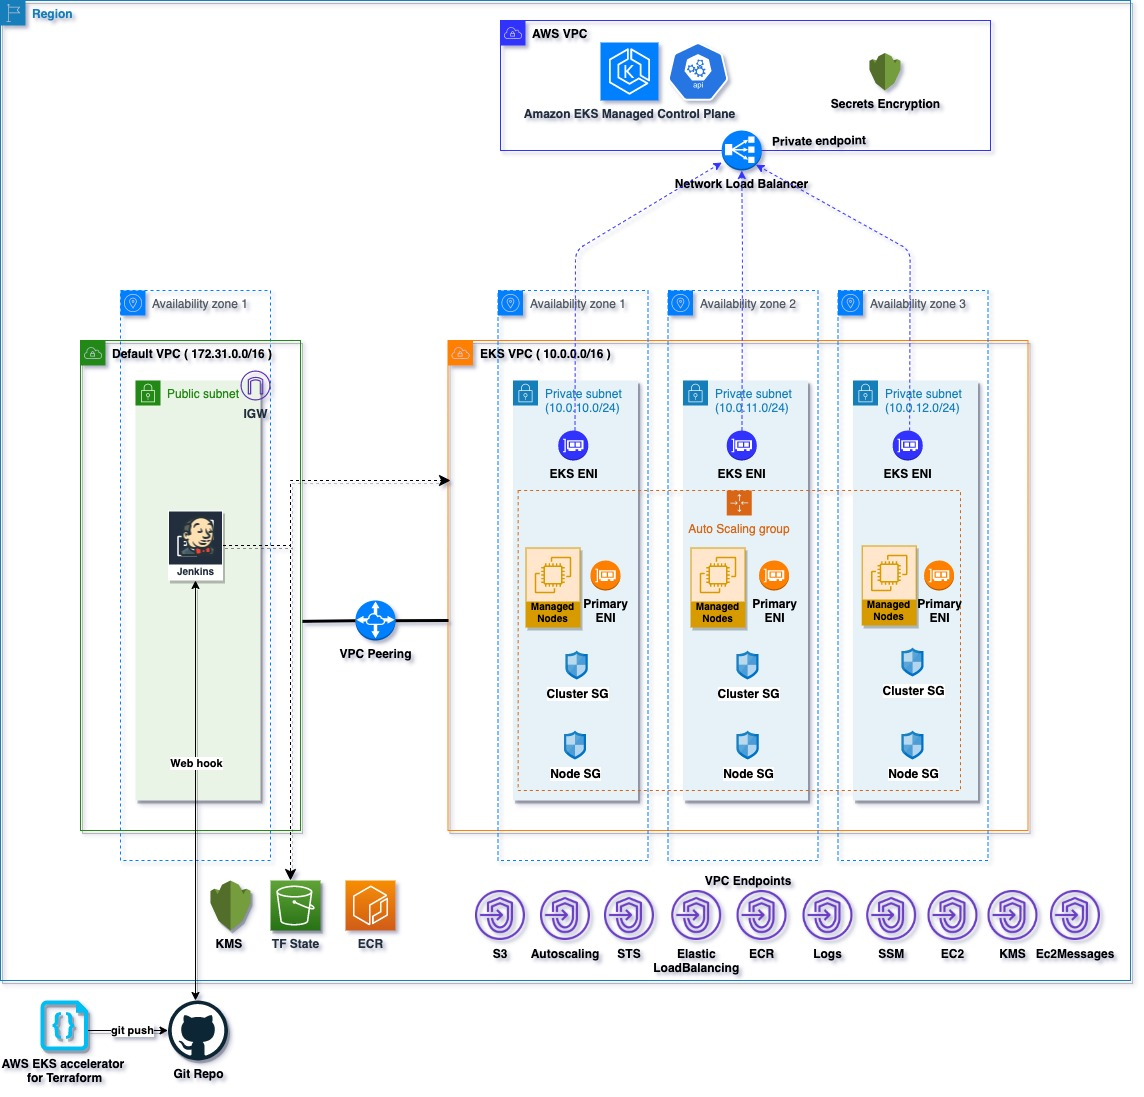
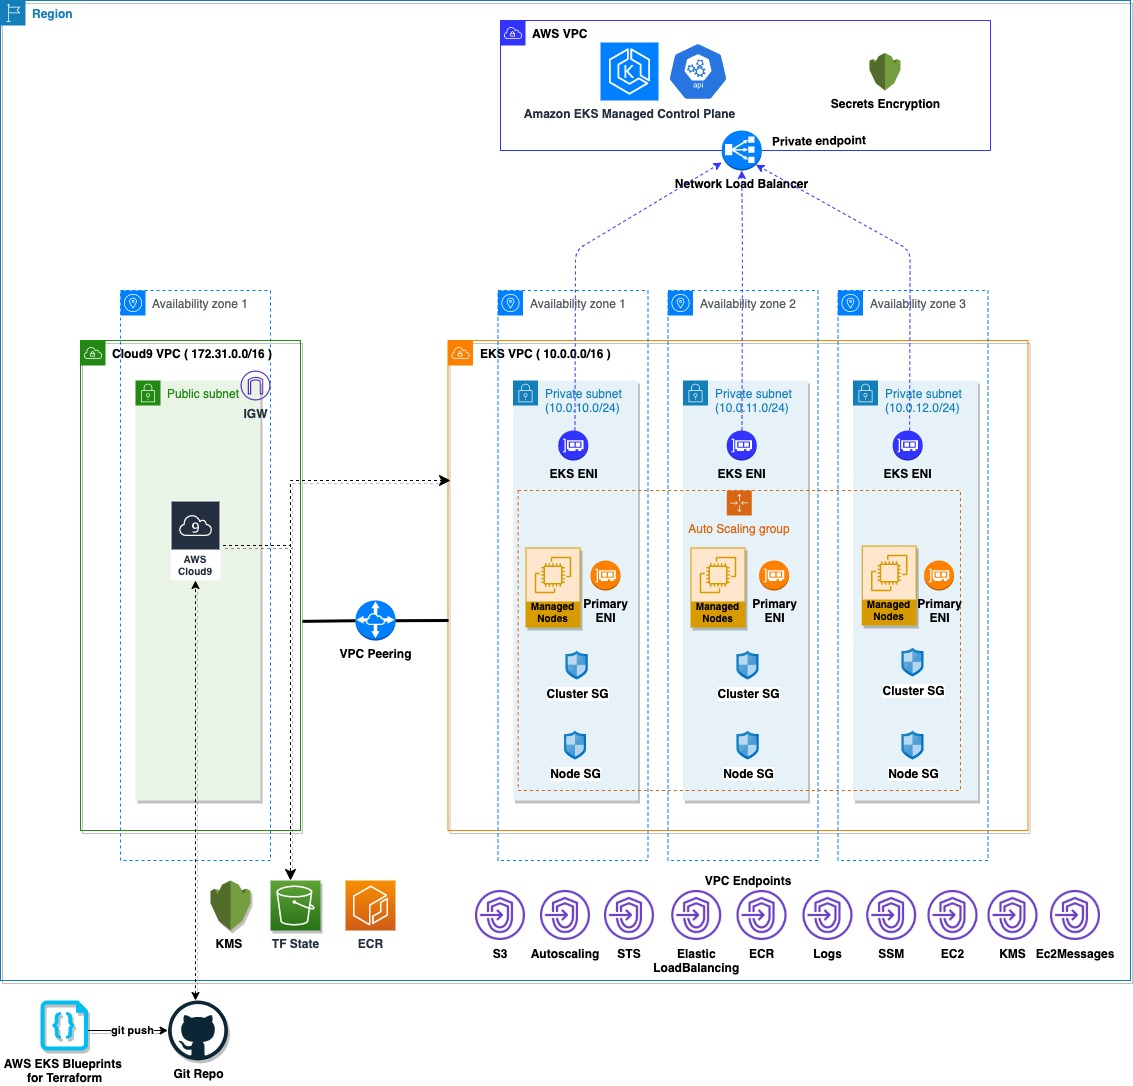
Updated docs

Changed region(s): [[0.0, 0.0, 1.0, 1.0], [0.4325, 0.0, 0.8341, 0.1823], [0.0, 0.0, 0.0618, 0.0304]]

diff --git a/examples/fully-private-eks-cluster/README.md b/examples/fully-private-eks-cluster/README.md
@@ -1,41 +1,186 @@
 # Fully Private EKS Cluster with VPC and VPC Endpoints deployment
 
-This example deploys a fully private EKS Cluster into a new VPC.
- - Creates a new VPC and 3 Private Subnets
- - VPC Endpoints for various services and S3 VPC Endpoint gateway
- - Creates EKS Cluster Control plane with a private endpoint and with one Managed node group
+This example deploys a fully private EKS Cluster into a new VPC using Cloud9.
+ - Create a new VPC called cloud9-vpc with public and private subnets to host the Cloud9 instance.
+ - Creates a new VPC called eks-vpc and 3 Private Subnets to deploy the private EKS cluster.
+ - VPC Peering connection between the above 2 VPCs and Route table updates to allow network traffic between these 2 VPCs.
+ - VPC Endpoints for various services and S3 VPC Endpoint gateway in the eks-vpc that is required for the private EKS cluster.
+ - Creates EKS Cluster Control plane with a private endpoint and with one Managed node group.
+ - Deploys Managed add-ons to the EKS cluster.
 
 Please see this [document](https://docs.aws.amazon.com/eks/latest/userguide/private-clusters.html) for more details on configuring fully private EKS Clusters
 
-Here is the high level design of the solution. The solution has been split into 2 different Terraform stacks for simplicity.
-1. VPC
+Here is the high level design of the solution. The solution has been split into 3 different Terraform stacks for simplicity.
+1. VPC 
+    - This Terraform stack provisions the following resources :
+        - A VPC (cloud9-vpc) with public and private subnets to run the Cloud9 Instance.
+        - A VPC (eks-vpc) with private only subnets to run the EKS cluster with VPC endpoints.
+        - A VPC peering connection to peer the 2 VPCs
+        - Route table updates to allow network traffic from the cloud9-vpc to the eks-vpc.
 2. EKS
+    - This Terraform stack provision a private EKS cluster in the eks-vpc.
+3. Add-ons
+    - This Terraform stack provisions managed add-ons to the EKS cluster.
 
 ![High Level Design](../../images/EKS_private_cluster.jpg)
 
 ## How to Deploy
 ### Prerequisites:
-1. This examples assumes that you have a default VPC in your AWS account.
-2. An EC2 instance running in the default VPC that is running Jenkins OR having the pre-requisite tools mentioned below. This EC2 instance can be used as a Jenkins Server OR as a bastion host. For simplicity this EC2 instance is running in the public subnet of this default VPC.
-3. The following tools are installed on the EC2 instance.
+Ensure that you have installed the following tools in your Mac or Windows Laptop before start working with this module and run Terraform Plan and Apply
+1. [AWS CLI](https://docs.aws.amazon.com/cli/latest/userguide/install-cliv2.html)
+2. [Kubectl](https://Kubernetes.io/docs/tasks/tools/)
+3. [Terraform](https://learn.hashicorp.com/tutorials/terraform/install-cli)
 
-    3.1. [AWS CLI](https://docs.aws.amazon.com/cli/latest/userguide/install-cliv2.html)
+# Provision the VPC and network plumbing using the VPC stack
+### Deployment Steps
+#### Step1: Clone the repo using the command below
 
-    3.2. [Kubectl](https://Kubernetes.io/docs/tasks/tools/)
+```shell script
+git clone git clone https://github.com/aws-ia/terraform-aws-eks-blueprints.git
+```
 
-    3.3. [Terraform](https://learn.hashicorp.com/tutorials/terraform/install-cli)
+#### Step2: Review and update the base.tfvars
+Review base.tfvars and update the values for the variables. The following shows some examples for the variables. 
+```shell script
+region           = "us-west-2"
+eks_vpc_name     = "eks_vpc"
+eks_vpc_cidr     = "10.0.0.0/16"
+cloud9_vpc_cidr  = "172.31.0.0/16"
+cloud9_vpc_name  = "cloud9_vpc"
+cloud9_owner_arn = "<arn of the owner>"
+```
 
-### Environment Set up.
-
-3. You can SSH into the EC2 instance to run Terraform commands OR access the Jenkins server running on this EC2 instance to run a Jenkins pipeline that can run the below Terraform stack(s). Please note that setting up Jenkins on the EC2 instance is out of scope from this example.
-
-4. Deploy the individual stacks from each of the sub folders. i.e.
-
-    4.1 VPC - Please refer to the [instructions](./vpc/README.md) to deploy a new VPC. 
-
-    4.2 EKS - Please refer to the [instructions](./eks/README.md) to deploy a private EKS cluster.
+#### Step3: Run Terraform INIT
+Initialize a working directory with configuration files
 
 
-5. You can deploy add-ons and custom workloads to this private EKS cluster from a private docker registry like ECR.
+```shell script
+cd examples/fully-private-eks-cluster/vpc
+terraform init 
+```
+
+#### Step4: Run Terraform PLAN
+Verify the resources created by this execution
+
+```shell script
+export AWS_REGION=<ENTER YOUR REGION>   # Select your own region
+terraform plan -var-file base.tfvars
+```
+
+#### Step5: Terraform APPLY
+to create resources
+
+```shell script
+terraform apply -var-file base.tfvars
+```
+
+Enter `yes` to apply
+
+Note : Once the stack completes, you will see an output of the vpc-id and the private subnets for the eks-vpc. Note them so we can use them in the EKS Terraform stack.
+
+ 
+## How to Destroy
+The following command destroys the resources created by `terraform apply`
+
+```shell script
+cd examples/fully-private-eks-cluster/vpc
+terraform destroy -var-file base.tfvars -auto-approve  
+```    
+
+# Provision the Private EKS cluster using the EKS stack.
+
+### Prerequisites:
+We will deploy the EKS cluster from the Cloud9 instance that was deployed to the cloud9-vpc. 
+
+1. Launch the "EKS-Cloud9" Cloud9 instance.
+2. Install Kubernetes tools on the Cloud9 instance.
+    - [Kubectl](https://Kubernetes.io/docs/tasks/tools/)
+3. Create an IAM role for the Cloud9 workspace and attach the IAM role to your workspace.
+    TODO - Automate creation of this role - Discuss with the team.
+4. Update IAM settings for your workspace to disable Cloud9 managing IAM credentials.
+```shell script
+aws cloud9 update-environment  --environment-id $C9_PID --managed-credentials-action DISABLE
+rm -vf ${HOME}/.aws/credentials
+```
+
+### Deployment Steps
+#### Step1: Clone the repo using the command below
+
+```shell script
+git clone https://github.com/aws-ia/terraform-aws-eks-blueprints.git
+```
+
+#### Step2: Review and update the base.tfvars
+Review base.tfvars and update the values for the variable(s).  The following shows some examples for the variables. Ensure you verify and replace all the values for these variables. You can get the VPC ID and subnet IDs from the VPC stack output.
+
+```shell script
+region             = "us-west-2"
+cluster_version    = "1.22"
+vpc_id             = "<vpc-id>"
+private_subnet_ids = ["<private-subnet-1>", "<private-subnet-2>", "<private-subnet-3>"]
+cluster_security_group_additional_rules = {
+  ingress_from_cloud9_host = {
+    description = "Ingress from  Cloud9 Host"
+    protocol    = "-1"
+    from_port   = 0
+    to_port     = 0
+    type        = "ingress"
+    cidr_blocks = ["172.31.0.0/16"]
+  }
+}
+```
+#### Step3: Run Terraform INIT
+Initialize a working directory with configuration files
+
+```shell script
+cd examples/fully-private-eks-cluster/eks
+terraform init 
+```
+
+#### Step4: Run Terraform PLAN
+Verify the resources created by this execution
+
+```shell script
+export AWS_REGION=<ENTER YOUR REGION>   # Select your own region
+terraform plan -var-file base.tfvars
+```
+
+#### Step5: Terraform APPLY
+to create resources
+
+```shell script
+terraform apply -var-file base.tfvars
+```
+Enter `yes` to apply
+
+### Configure `kubectl` and test cluster
+EKS Cluster details can be extracted from terraform output or from AWS Console to get the name of cluster.
+This following command used to update the `kubeconfig` on your Cloud9 instance where you run kubectl commands to interact with your EKS Cluster.
+
+#### Step6: Run `update-kubeconfig` command
+
+`~/.kube/config` file gets updated with cluster details and certificate from the below command
+
+    $ aws eks --region <enter-your-region> update-kubeconfig --name <cluster-name>
+
+The EKS Terraform stack outputs the command you have to execute to update the  `kubeconfig` on your Cloud9 instance.
+
+#### Step7: List all the worker nodes by running the command below
+
+    $ kubectl get nodes
+
+#### Step8: List all the pods running in `kube-system` namespace
+
+    $ kubectl get pods -n kube-system
+
+ 
+
+## How to Destroy
+The following command destroys the resources created by `terraform apply`
+
+```shell script
+cd examples/fully-private-eks-cluster/vpc
+terraform destroy -var-file base.tfvars -auto-approve  
+``` 
 
 <!--- END_TF_DOCS --->
